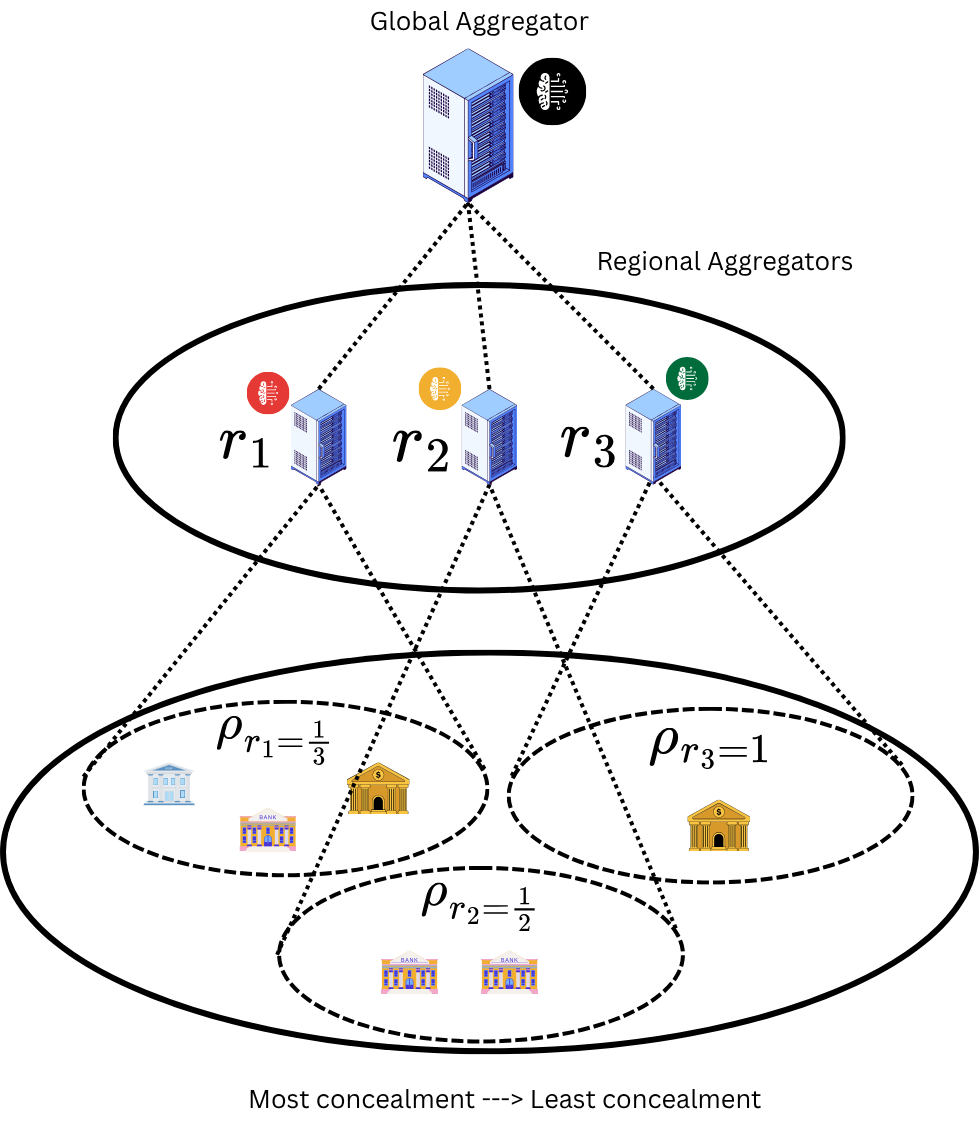
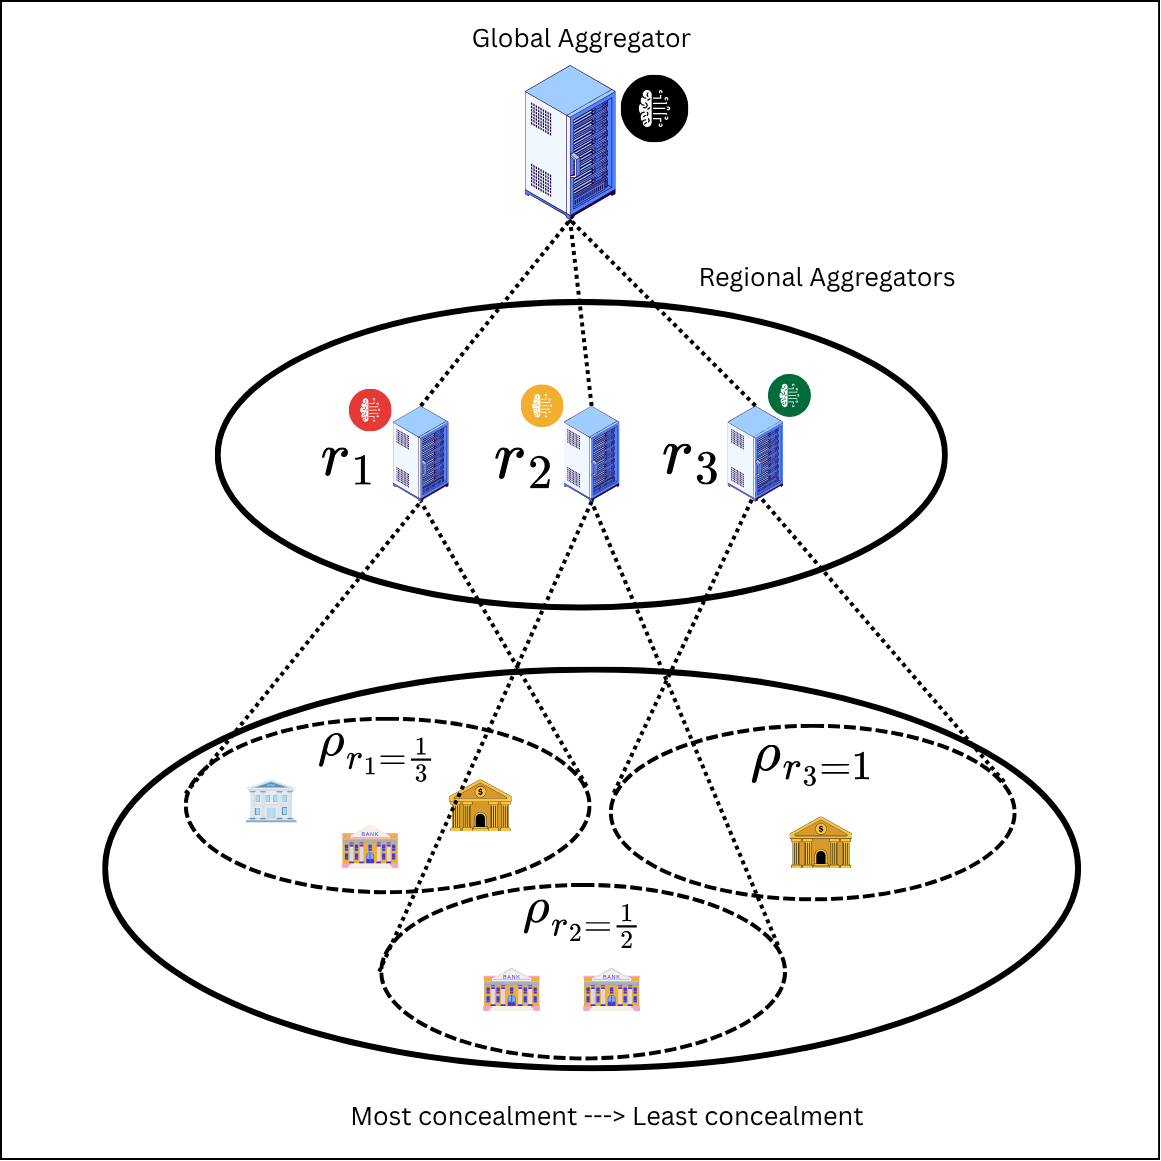
Add acknowledgement
Thanks Prof. Salil Kanhere for feedback and guidance during preparation.
Placed before the references, per IEEE convention. Uses British spelling
to match the rest of the document.

diff --git a/manuscript/main.tex b/manuscript/main.tex
@@ -965,6 +965,11 @@ The \Fulcrum reference implementation, together with the analysis artefacts
 underlying every table and figure, is available at
 \url{https://doi.org/10.5281/zenodo.20507155}.
 
+\section*{Acknowledgement}
+
+The authors thank Prof. Salil Kanhere for his valuable feedback and guidance
+during the preparation of this work.
+
 \begin{thebibliography}{99}
 \bibitem{mcmahan2017fedavg} H. B. McMahan, E. Moore, D. Ramage, S. Hampson, and B. A. y Arcas, ``Communication-efficient learning of deep networks from decentralized data,'' in \textit{AISTATS}, 2017, pp. 1273--1282.
 \bibitem{hard2018keyboard} A. Hard \textit{et al.}, ``Federated learning for mobile keyboard prediction,'' \textit{arXiv:1811.03604}, 2018.
